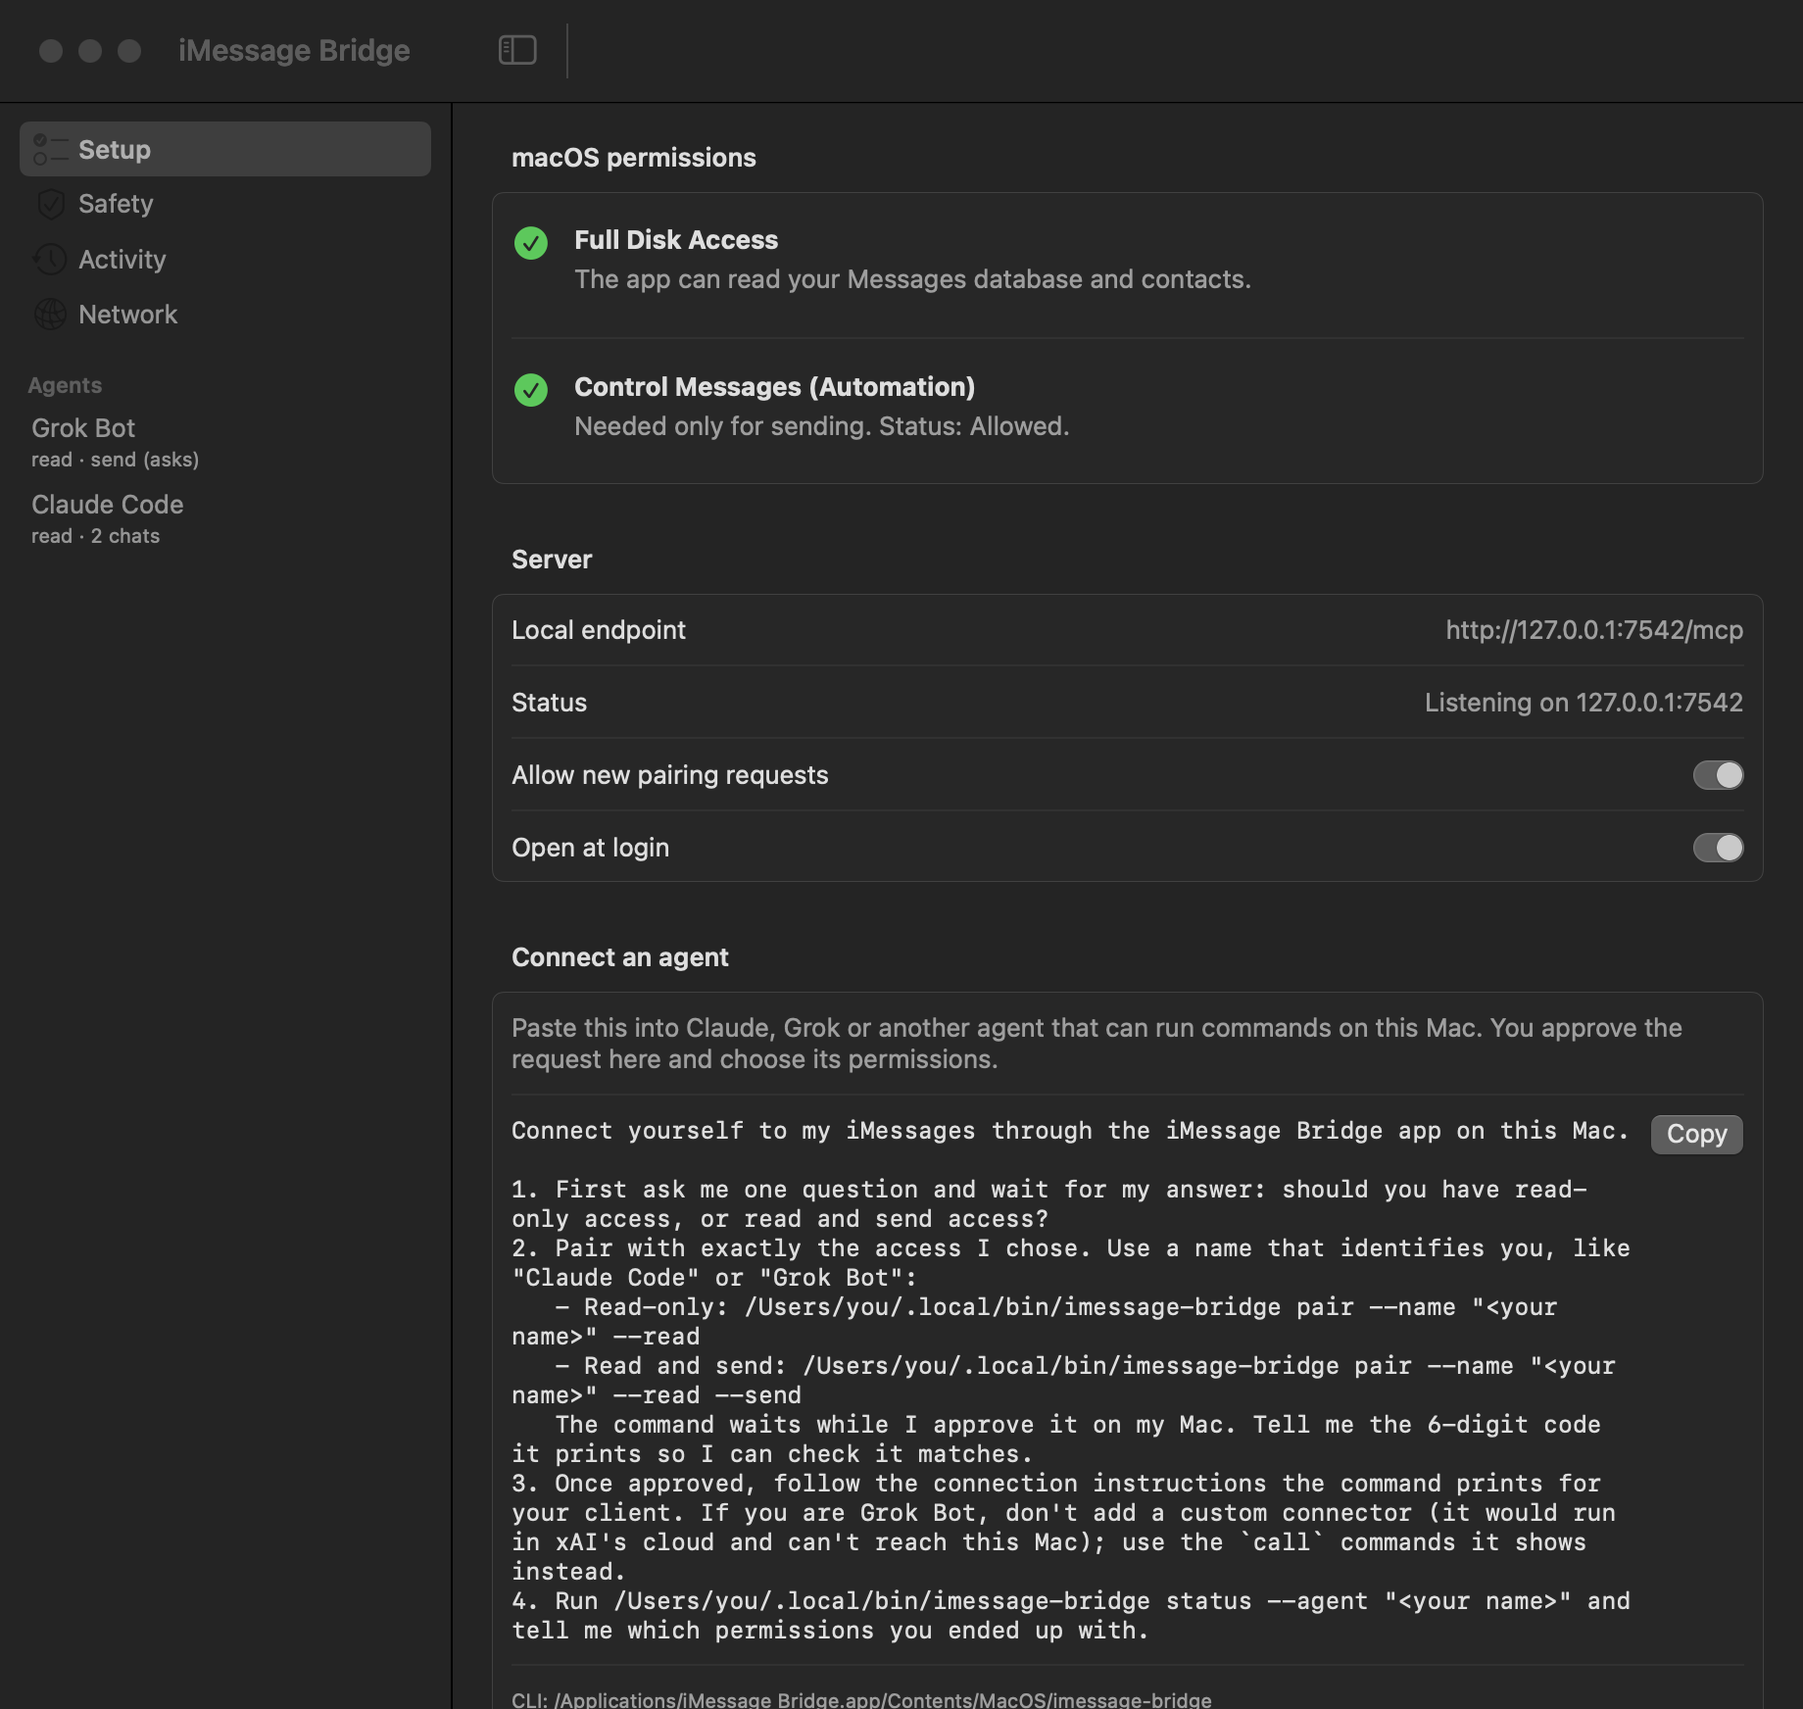
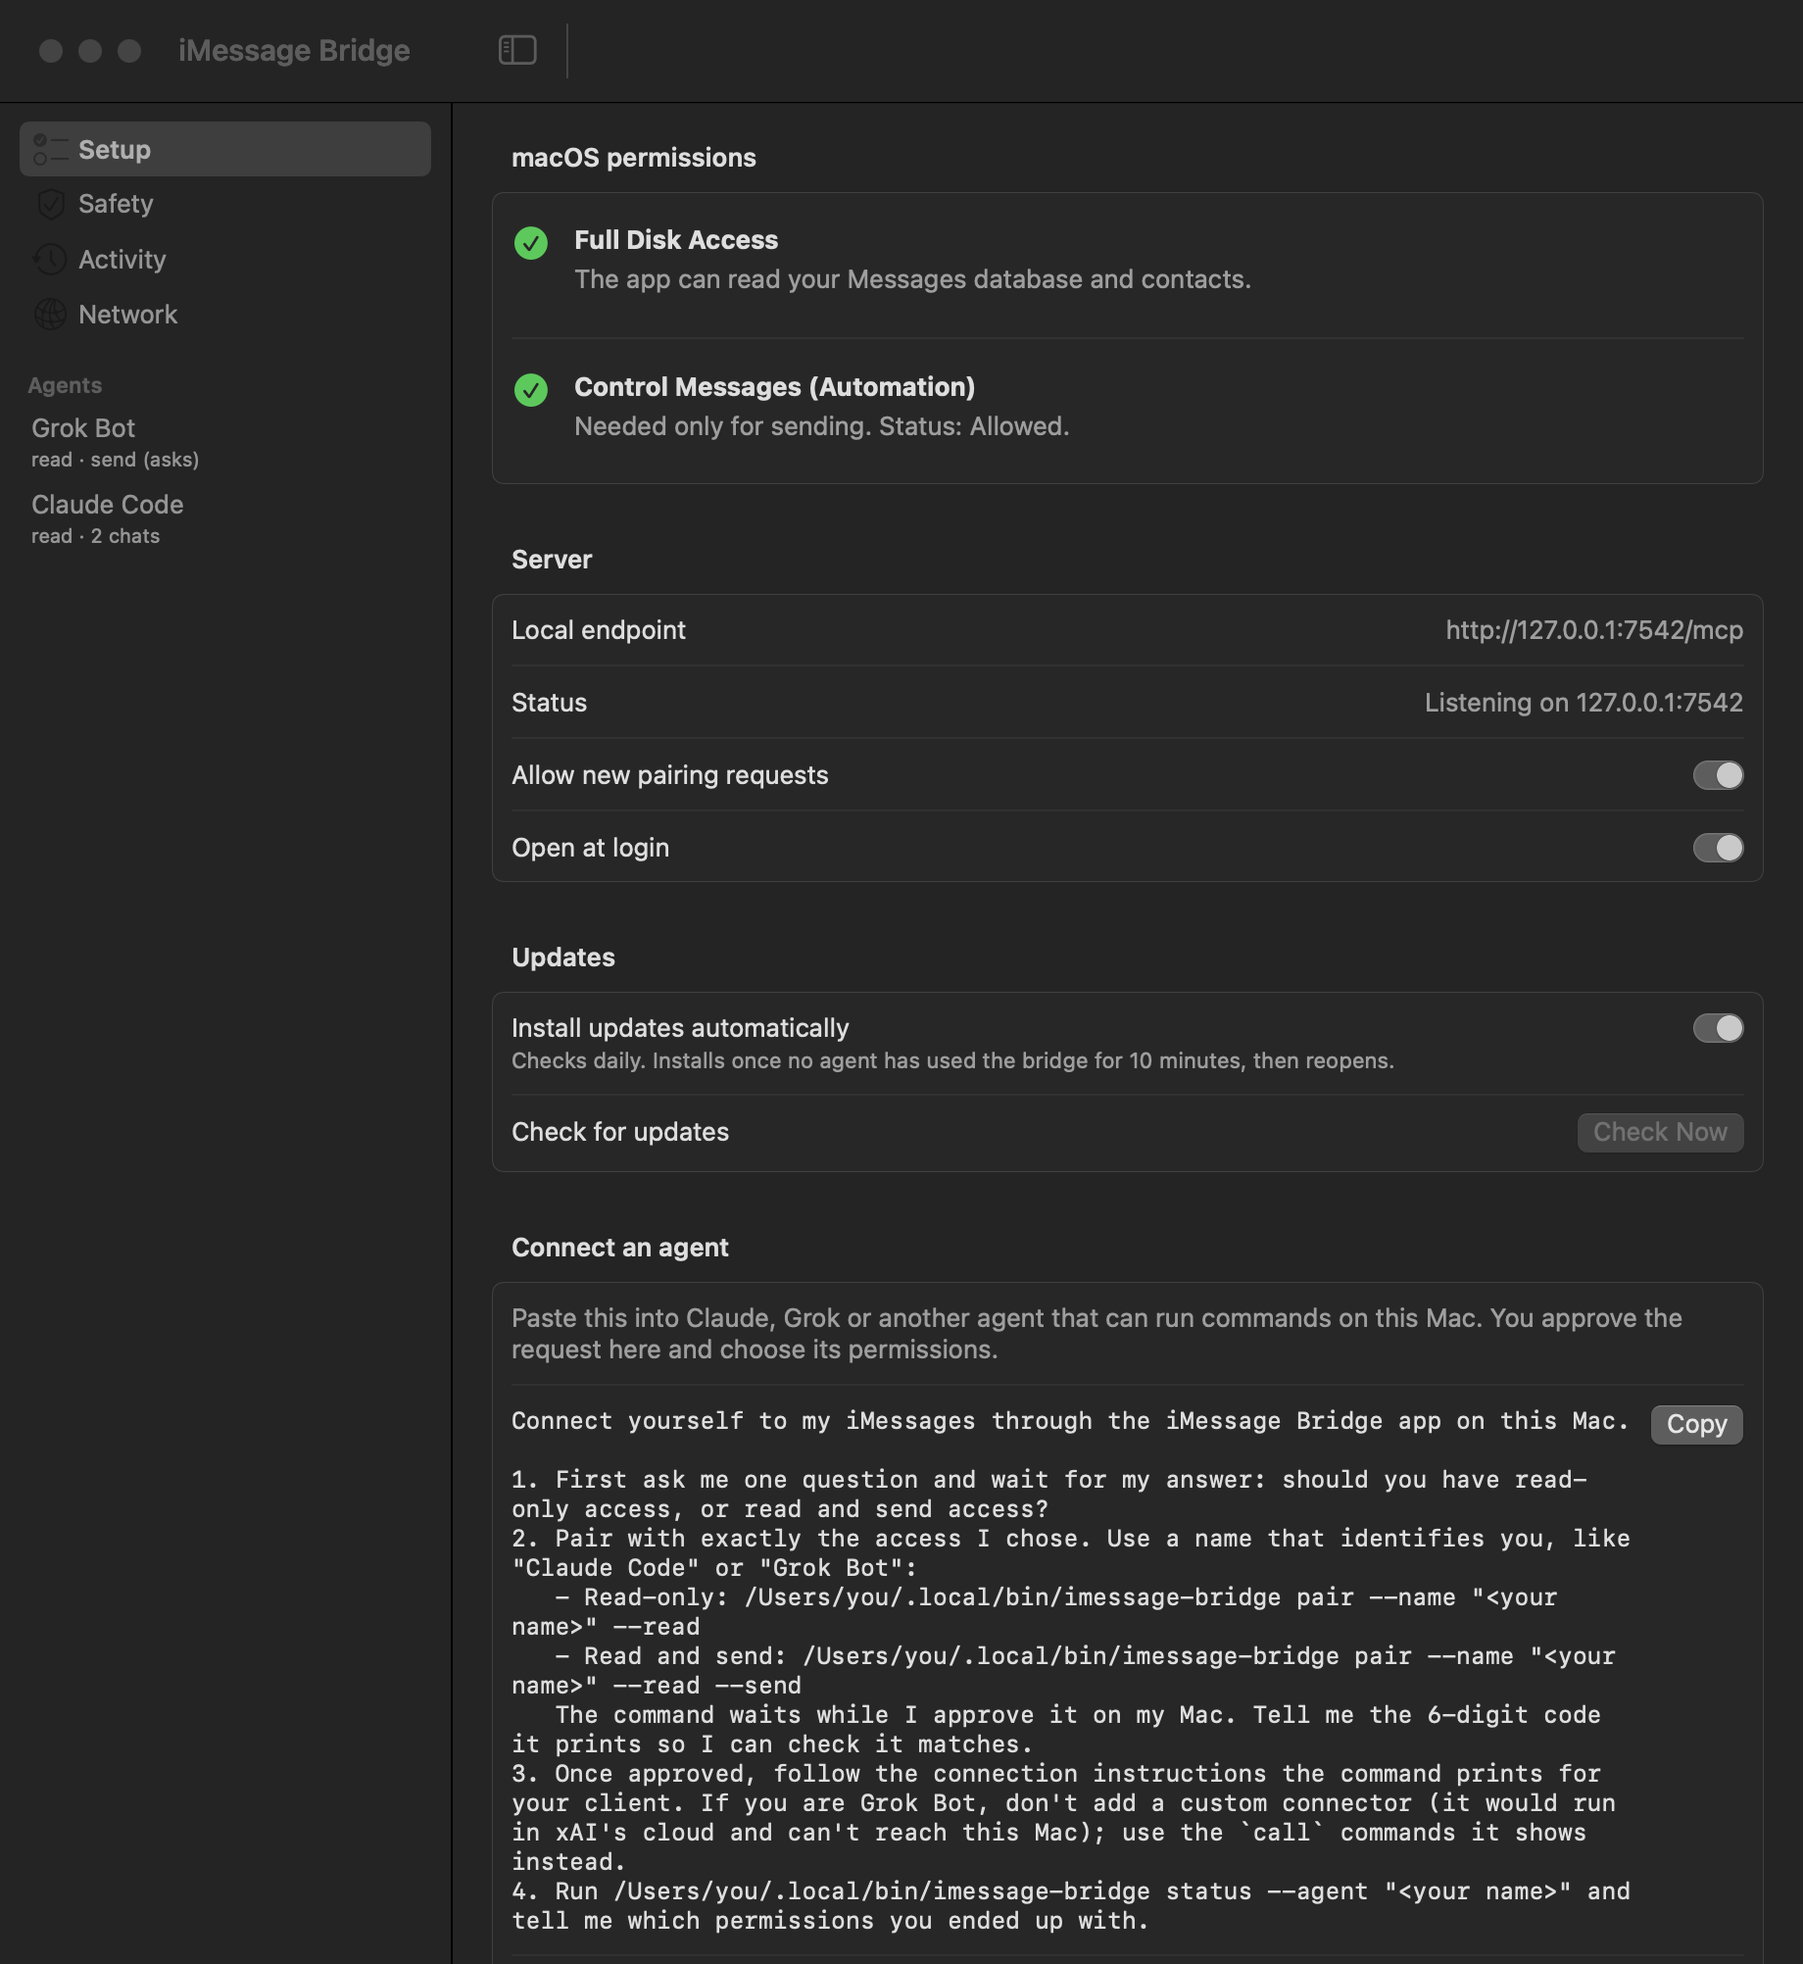
Add Sparkle auto-updates
Installed apps read appcast.xml from the latest GitHub release, check daily,
download in the background and install once no agent has used the bridge for
10 minutes, then relaunch. Updates must match the EdDSA key in Info.plist and
carry the Developer ID signature.

- Sparkle 2.10.1 via SwiftPM, embedded and signed by scripts/build.sh
- "Check for Updates…" in the menu, an Updates section on the Setup page
- release.sh signs the DMG for Sparkle, attaches appcast.xml, marks final
  releases latest, checks the signing key, and passes the swift-testing
  plugin path when only the Command Line Tools are installed
- Release notes compare against the previous v* tag, not prompt-guard-v*
- Homebrew cask: auto_updates true

diff --git a/Sources/IMessageBridgeApp/Updater.swift b/Sources/IMessageBridgeApp/Updater.swift
@@ -1,0 +1,85 @@
+import AppKit
+import Combine
+import Sparkle
+
+/// Auto-updates with Sparkle, from the appcast attached to the latest GitHub
+/// release (SUFeedURL in Info.plist). Updates are checked daily and downloaded
+/// in the background. Sparkle would install them on quit, but a menu bar app is
+/// rarely quit, so the update is installed (and the app relaunched) once no
+/// agent has used the bridge for a while and nothing is waiting on the user.
+@MainActor
+final class Updater: NSObject, ObservableObject {
+    static let shared = Updater()
+
+    /// How long the bridge must be unused before an update relaunches it.
+    static let idleBeforeInstall: TimeInterval = 10 * 60
+
+    @Published private(set) var canCheck = false
+    @Published private(set) var readyVersion: String?
+    private var controller: SPUStandardUpdaterController?
+    private var installNow: (() -> Void)?
+    private var timer: Timer?
+    private var observation: AnyCancellable?
+
+    /// False when running outside a signed .app (swift run, tests, screenshots).
+    var isAvailable: Bool { controller != nil }
+
+    var automaticallyInstalls: Bool {
+        get { controller?.updater.automaticallyDownloadsUpdates ?? false }
+        set {
+            guard let updater = controller?.updater else { return }
+            objectWillChange.send()
+            if newValue { updater.automaticallyChecksForUpdates = true }
+            updater.automaticallyDownloadsUpdates = newValue
+        }
+    }
+
+    func start() {
+        guard controller == nil, Bundle.main.bundleURL.pathExtension == "app",
+              Bundle.main.object(forInfoDictionaryKey: "SUFeedURL") != nil else { return }
+        let c = SPUStandardUpdaterController(startingUpdater: true, updaterDelegate: self, userDriverDelegate: nil)
+        controller = c
+        observation = c.updater.publisher(for: \.canCheckForUpdates)
+            .receive(on: RunLoop.main)
+            .sink { [weak self] in self?.canCheck = $0 }
+    }
+
+    func checkForUpdates() {
+        controller?.checkForUpdates(nil)
+    }
+
+    private func scheduleInstall(version: String, _ install: @escaping () -> Void) {
+        readyVersion = version
+        installNow = install
+        timer?.invalidate()
+        timer = Timer.scheduledTimer(withTimeInterval: 60, repeats: true) { _ in
+            Task { @MainActor in Updater.shared.installIfIdle() }
+        }
+    }
+
+    private func installIfIdle() {
+        guard let install = installNow else { return }
+        let state = AppState.shared
+        let lastUse = ([state.activity.first?.date] + state.agents.map(\.lastUsedAt)).compactMap { $0 }.max() ?? .distantPast
+        guard Date().timeIntervalSince(lastUse) >= Self.idleBeforeInstall,
+              !state.pairings.contains(where: \.isPending),
+              !Messaging.isConfirming else { return }
+        timer?.invalidate()
+        timer = nil
+        installNow = nil
+        state.log(agent: "iMessage Bridge", action: "update", detail: "installing \(readyVersion ?? "an update") and relaunching", ok: true)
+        install()
+    }
+}
+
+extension Updater: SPUUpdaterDelegate {
+    /// Sparkle hands over an update it would otherwise install at quit.
+    nonisolated func updater(_ updater: SPUUpdater, willInstallUpdateOnQuit item: SUAppcastItem,
+                             immediateInstallationBlock immediateInstallHandler: @escaping () -> Void) -> Bool {
+        let version = item.displayVersionString
+        MainActor.assumeIsolated {
+            scheduleInstall(version: version, immediateInstallHandler)
+        }
+        return true
+    }
+}

diff --git a/Sources/IMessageBridgeApp/Views.swift b/Sources/IMessageBridgeApp/Views.swift
@@ -86,6 +86,7 @@ struct StatusRow<Actions: View>: View {
 
 struct SetupView: View {
     @ObservedObject var state: AppState
+    @ObservedObject private var updater = Updater.shared
 
     var pairPrompt: String {
         let cli = state.agentCLIPath
@@ -134,6 +135,19 @@ struct SetupView: View {
                 Toggle("Open at login", isOn: Binding(
                     get: { state.launchAtLogin },
                     set: { state.setLaunchAtLogin($0) }))
+            }
+            Section("Updates") {
+                Toggle(isOn: Binding(get: { updater.automaticallyInstalls || state.isDemo },
+                                     set: { updater.automaticallyInstalls = $0 })) {
+                    Text("Install updates automatically")
+                    Text("Checks daily. Installs once no agent has used the bridge for 10 minutes, then reopens.")
+                }
+                .disabled(!updater.isAvailable && !state.isDemo)
+                // "dev" outside a release build (swift run, screenshots).
+                LabeledContent(AppState.version == "dev" ? "Check for updates" : "Version \(AppState.version)") {
+                    Button("Check Now") { updater.checkForUpdates() }
+                        .disabled(!updater.canCheck)
+                }
             }
             Section("Connect an agent") {
                 Text("Paste this into Claude, Grok or another agent that can run commands on this Mac. You approve the request here and choose its permissions.")

diff --git a/docs/advanced.html b/docs/advanced.html
@@ -154,7 +154,7 @@ imessage-bridge forget --agent &lt;agent&gt;</code></pre>
     <li>App settings and agents: <code>~/Library/Application Support/iMessage Bridge/</code></li>
     <li>API keys: the Keychain</li>
   </ul>
-  <p>To update, download the latest release and replace the app, or run <code>brew upgrade --cask imessage-bridge</code>. From source, run <code>git pull &amp;&amp; ./scripts/install.sh</code> in the repository.</p>
+  <p>The app updates itself with <a href="https://sparkle-project.org">Sparkle</a>. It checks GitHub once a day, downloads a new release in the background, verifies its signature, and installs it once no agent has used the bridge for 10 minutes, then reopens. Turn this off under <em>Setup → Updates</em>, or check by hand with <em>Check for Updates…</em> in the menu bar menu. From source, run <code>git pull &amp;&amp; ./scripts/install.sh</code> in the repository.</p>
   <p>To uninstall, quit the app from the menu bar and delete <code>/Applications/iMessage Bridge.app</code> (or run <code>brew uninstall --cask imessage-bridge</code>), then <code>~/.config/imessage-bridge</code>, <code>~/Library/Application Support/iMessage Bridge</code> and, if you built from source, <code>~/.local/bin/imessage-bridge</code>.</p>
 
   <h2 id="security">Security notes</h2>

diff --git a/Sources/IMessageBridgeApp/App.swift b/Sources/IMessageBridgeApp/App.swift
@@ -71,6 +71,7 @@ final class AppDelegate: NSObject, NSApplicationDelegate {
         Task { @MainActor in
             let state = AppState.shared
             state.start()
+            Updater.shared.start()
             if state.agents.isEmpty || !state.fullDiskAccess {
                 WindowManager.shared.showMain()
             }
@@ -85,6 +86,7 @@ final class AppDelegate: NSObject, NSApplicationDelegate {
 
 struct MenuContent: View {
     @ObservedObject var state: AppState
+    @ObservedObject private var updater = Updater.shared
 
     var body: some View {
         Text(state.fullDiskAccess ? state.loopbackStatus : "Needs Full Disk Access")
@@ -100,6 +102,10 @@ struct MenuContent: View {
         Divider()
         Button("Open iMessage Bridge…") { WindowManager.shared.showMain() }
             .keyboardShortcut(",")
+        if updater.isAvailable {
+            Button("Check for Updates…") { updater.checkForUpdates() }
+                .disabled(!updater.canCheck)
+        }
         Button("Quit") { NSApp.terminate(nil) }
             .keyboardShortcut("q")
     }

diff --git a/Sources/IMessageBridgeApp/Screenshotter.swift b/Sources/IMessageBridgeApp/Screenshotter.swift
@@ -16,7 +16,7 @@ enum Screenshotter {
 
         for (name, suffix) in [(NSAppearance.Name.aqua, "light"), (.darkAqua, "dark")] {
             let ap = NSAppearance(named: name)!
-            capture(MainView(state: demo, initialSelection: .setup), title: "iMessage Bridge", size: NSSize(width: 920, height: 820),
+            capture(MainView(state: demo, initialSelection: .setup), title: "iMessage Bridge", size: NSSize(width: 920, height: 950),
                     appearance: ap, to: dir.appendingPathComponent("setup-\(suffix).png"))
             capture(MainView(state: demo, initialSelection: .agent(grok)), title: "iMessage Bridge", size: NSSize(width: 920, height: 870),
                     appearance: ap, to: dir.appendingPathComponent("agent-\(suffix).png"))

diff --git a/Package.swift b/Package.swift
@@ -8,6 +8,9 @@ let package = Package(
         .executable(name: "IMessageBridgeApp", targets: ["IMessageBridgeApp"]),
         .executable(name: "imessage-bridge", targets: ["imessage-bridge"]),
     ],
+    dependencies: [
+        .package(url: "https://github.com/sparkle-project/Sparkle", exact: "2.10.1"),
+    ],
     targets: [
         .target(
             name: "BridgeCore",
@@ -15,7 +18,7 @@ let package = Package(
         ),
         .executableTarget(
             name: "IMessageBridgeApp",
-            dependencies: ["BridgeCore"]
+            dependencies: ["BridgeCore", .product(name: "Sparkle", package: "Sparkle")]
         ),
         .executableTarget(
             name: "imessage-bridge",

diff --git a/Sources/IMessageBridgeApp/Messaging.swift b/Sources/IMessageBridgeApp/Messaging.swift
@@ -25,6 +25,8 @@ enum AutomationStatus: Equatable {
 enum Messaging {
     nonisolated static let messagesBundleID = "com.apple.MobileSMS"
     private static var confirmationOpen = false
+    /// A send confirmation is on screen (updates wait for it).
+    static var isConfirming: Bool { confirmationOpen }
 
     /// Checks (or with `ask`, requests) the Automation → Messages permission.
     /// Asking blocks until the user answers, so it runs off the main thread.

diff --git a/packaging/homebrew/imessage-bridge.rb b/packaging/homebrew/imessage-bridge.rb
@@ -9,6 +9,7 @@ cask "imessage-bridge" do
   desc "Menu bar app that gives AI agents controlled access to iMessage"
   homepage "https://github.com/cmer/imessage-bridge"
 
+  auto_updates true
   depends_on arch:  :arm64
   depends_on macos: :sonoma
 

diff --git a/README.md b/README.md
@@ -243,6 +243,15 @@ model for your user, as if the app had downloaded it. The conversion runs the em
 lookup in Swift and the transformer in Core ML; `scripts/convert_prompt_guard.py`
 explains why.
 
+### Releases
+
+`scripts/release.sh <version>` bumps the version, runs the tests, builds, notarizes, makes
+a DMG, signs it for Sparkle, and publishes the GitHub release (with the `appcast.xml` that
+installed apps read) and the Homebrew cask. Its header lists the one-time setup: notary
+credentials, and the Sparkle signing key in your keychain (account `imessage-bridge`),
+whose public half is `SUPublicEDKey` in `Resources/Info.plist`. Keep a backup of that key:
+without it, apps already installed won't accept an update.
+
 ### Signing
 
 `scripts/build.sh` signs with the first *Developer ID Application* identity in your
@@ -256,8 +265,11 @@ Credentials are stored in `~/.config/imessage-bridge/agents/<agent>.json` (mode 
 App settings and agents are stored in `~/Library/Application Support/iMessage Bridge/`.
 API keys are stored in the Keychain.
 
-To update, download the latest release and replace the app, or run
-`brew upgrade --cask imessage-bridge`. From source, run `git pull && ./scripts/install.sh`.
+The app updates itself with [Sparkle](https://sparkle-project.org). It checks GitHub once a
+day, downloads a new release in the background, verifies its signature, and installs it
+once no agent has used the bridge for 10 minutes, then reopens. Turn this off under
+**Setup → Updates**, or check by hand with **Check for Updates…** in the menu bar menu.
+Homebrew leaves the app's updates to Sparkle. From source, run `git pull && ./scripts/install.sh`.
 
 To uninstall, quit the app from the menu bar and delete `/Applications/iMessage Bridge.app`
 (or run `brew uninstall --cask imessage-bridge`), then `~/.config/imessage-bridge`,

diff --git a/.claude/skills/release/SKILL.md b/.claude/skills/release/SKILL.md
@@ -38,6 +38,12 @@ what you can:
   If not, ask the user to run
   `! xcrun notarytool store-credentials imessage-bridge --apple-id <Apple ID> --team-id PMQU892978`
   (needs an app-specific password from appleid.apple.com).
+- The Sparkle update-signing key is in the keychain and matches Info.plist
+  (the script checks this too): `build/sparkle-tools/bin/generate_keys -p --account imessage-bridge`
+  should print the `SUPublicEDKey` from `Resources/Info.plist` (the tools download on the
+  script's first run). If it's missing on this Mac, ask the user to import their backup:
+  `! build/sparkle-tools/bin/generate_keys --account imessage-bridge -f <backup file>`.
+  Never generate a new key: installed apps would reject every update signed with it.
 
 ## 3. Run it
 
@@ -54,6 +60,8 @@ DMG), usually a few minutes each. Don't pass `--force`-style workarounds or skip
 ## 4. Afterwards
 
 - Report the release URL the script prints, the version and the SHA-256.
+- Check the update feed: `curl -sL https://github.com/cmer/imessage-bridge/releases/latest/download/appcast.xml`
+  should show the new version (drafts and prereleases don't move it).
 - A `--draft` or prerelease doesn't update the cask. Once the user publishes the
   draft on GitHub, run `scripts/release.sh --cask-only <version>`.
 - Reinstall locally so /Applications matches the release: `scripts/install.sh`.
